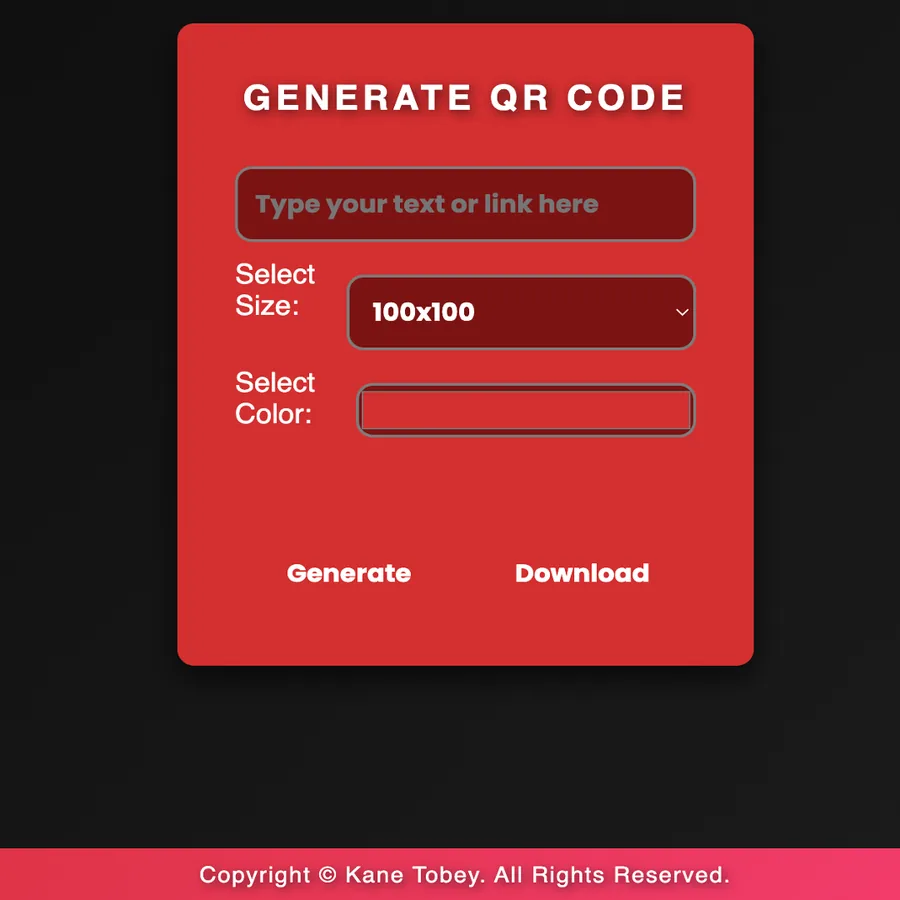
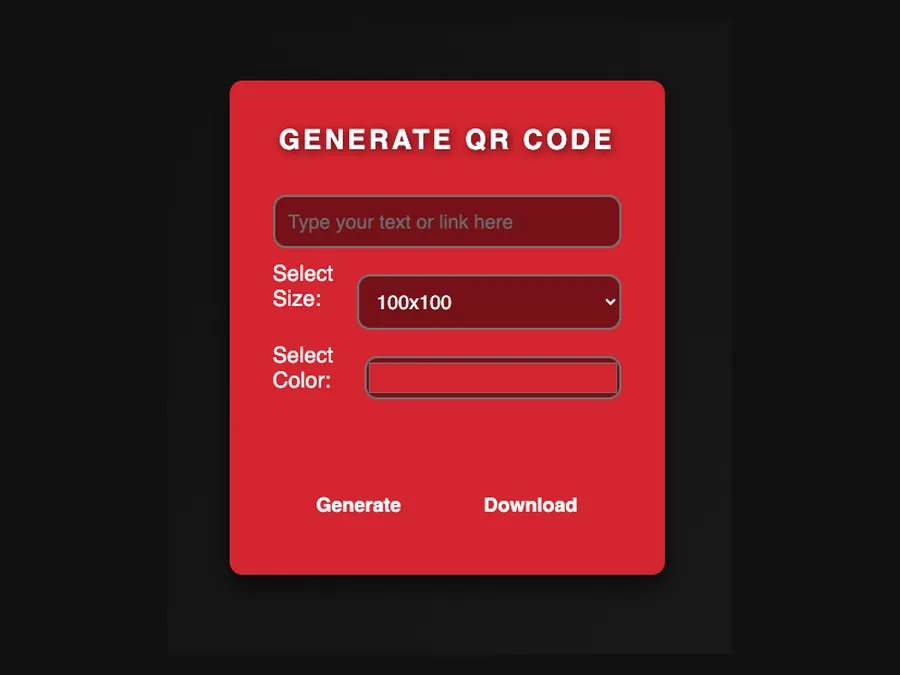
Replace the QR Code Generator project thumbnail
New screenshot of the current red-card interface. The source image is
517x580 portrait and .project-img crops thumbnails to 4:3 with object-fit
cover, which would have sliced the top and bottom off the card — so it is
composed onto a 4:3 canvas in the image's own dark backdrop before export,
leaving the crop nothing to cut. 900x675 WebP, 12 KB.

Also replaced the image's alt text, which was still the placeholder
"Project 2".

Verified at 1440px in light and dark: image loads, renders full-card at
468x351 in the grid.

Claude-Session: https://claude.ai/code/session_01VvYPCRFjG71qn4xafwkyx9

diff --git a/index.html b/index.html
@@ -369,7 +369,7 @@
         <div class="article-container">
           <img
             src="./assets/QR Generator Display Image.webp"
-            alt="Project 2"
+            alt="QR Code Generator — red card interface with text input, size and color options"
             class="project-img"
           />
         </div>
